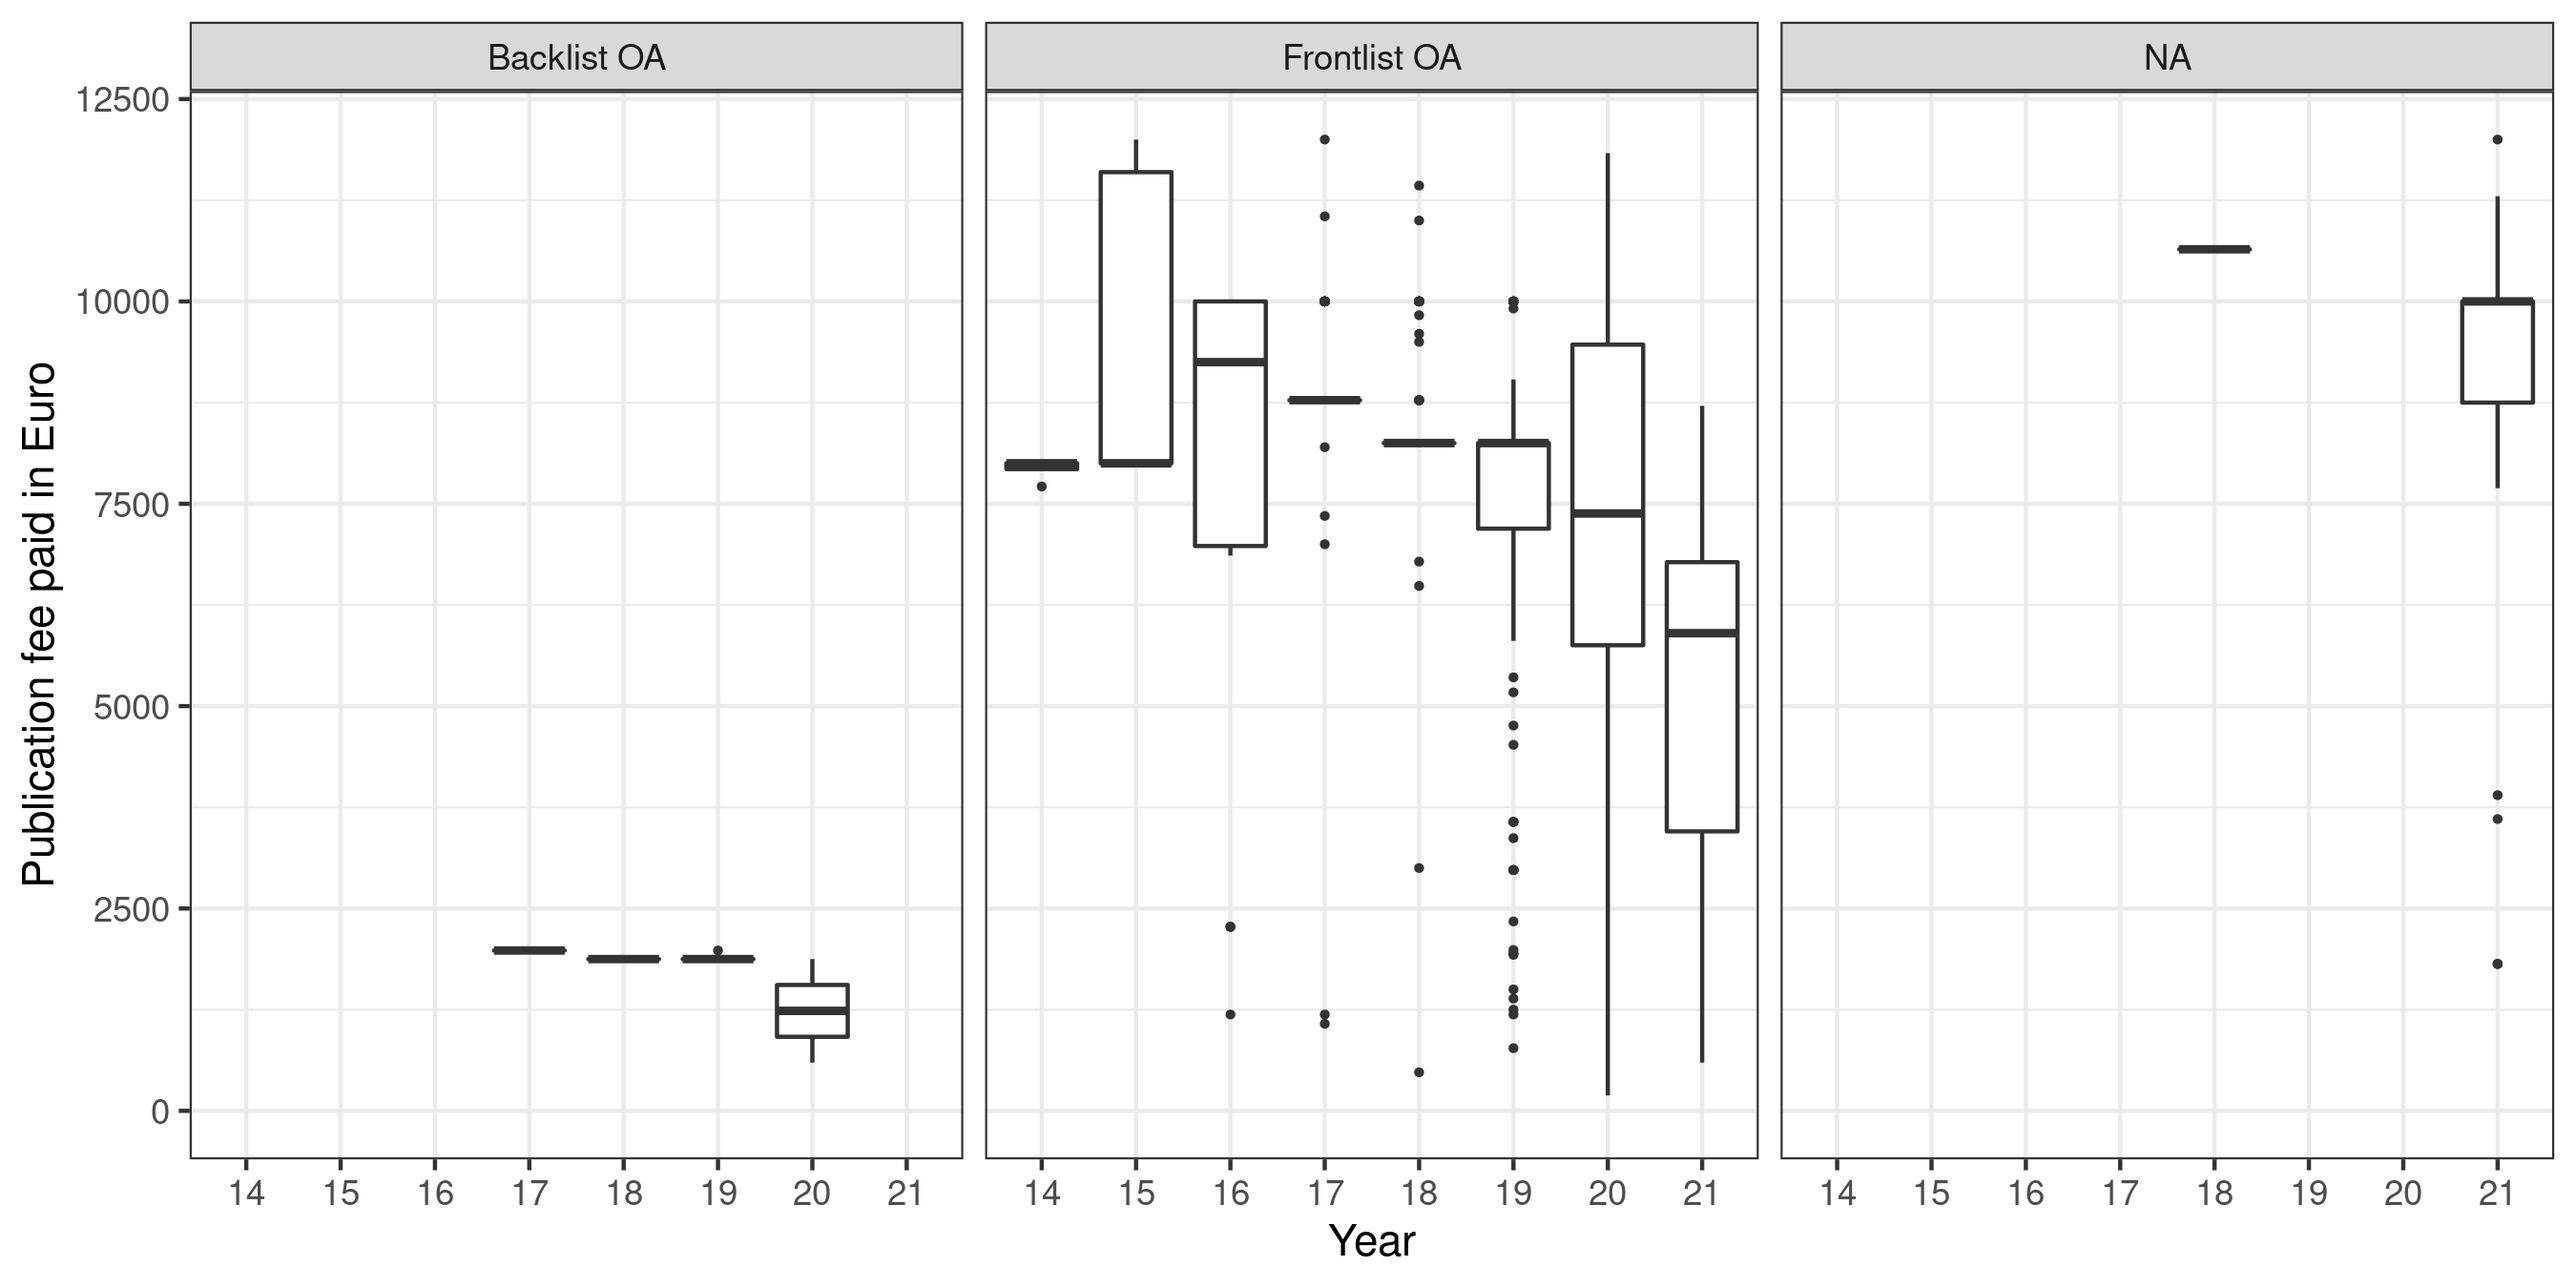
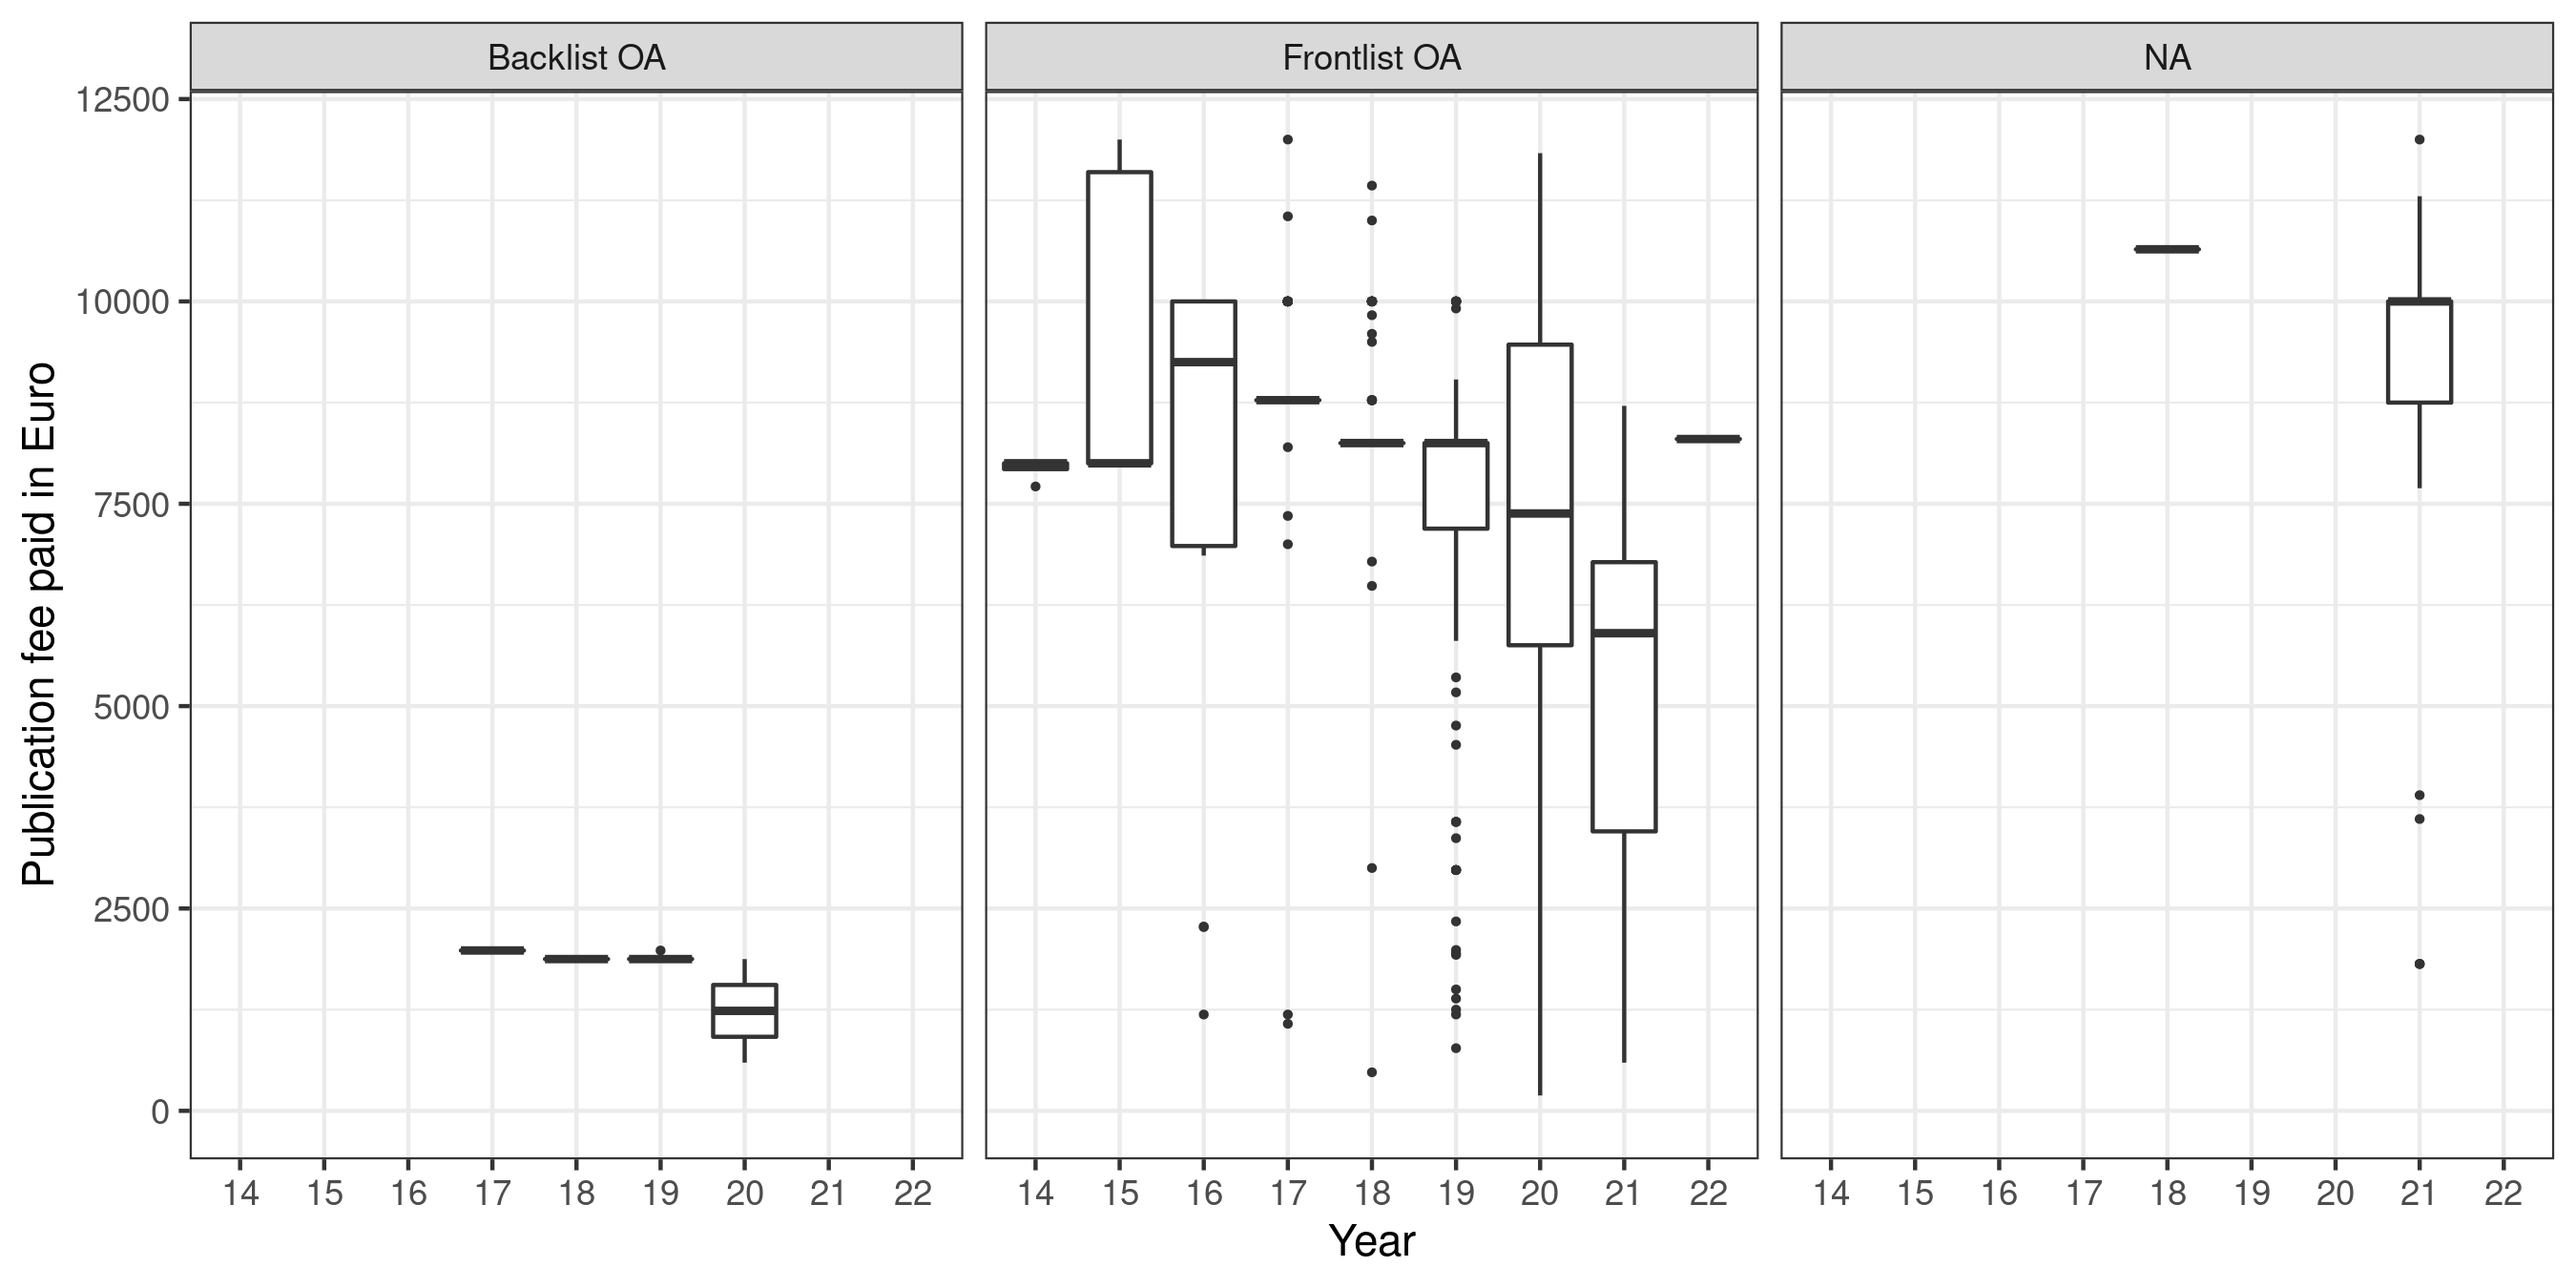
data added to collection

diff --git a/README.md b/README.md
@@ -17,7 +17,7 @@ At the moment this project provides the following cost data:
 | Publication Type | Count           | Aggregated Sum (€)      | Contributing Institutions              |
 |------------------|-----------------|-------------------------|----------------------------------------|
 | Articles         |167,843 | 322,966,959    | 382 |
-| Monographs       |1,472 | 9,500,268    | 27 |
+| Monographs       |1,473 | 9,508,568    | 27 |
 
 [![Build Status](https://api.travis-ci.com/OpenAPC/openapc-de.svg?branch=master)](https://travis-ci.com/OpenAPC/openapc-de)&nbsp;&nbsp;([What's this?](https://github.com/OpenAPC/openapc-de/wiki/Data-Integrity-Testing))
 
@@ -551,9 +551,9 @@ Hybrid open access journals rely on both publication fees and subscriptions as r
 
 ### Books (BPCs)
 
-The book data set contains information on 1,472 open access books. Publication fees were supported financially by 27 research performing institutions and funders. 
+The book data set contains information on 1,473 open access books. Publication fees were supported financially by 27 research performing institutions and funders. 
 
-In total, book processing charges covered by the OpenAPC initiative amounted to € 9,500,268. The average payment was € 6,454 and the median was € 7,022.
+In total, book processing charges covered by the OpenAPC initiative amounted to € 9,508,568. The average payment was € 6,455 and the median was € 7,045.
 
 Books can be made Open Access right from the beginning ("frontlist") or only retroactively after having been published traditionally in the first place ("backlist"), which can have a big influence on the paid BPCs.
 
@@ -576,6 +576,7 @@ Books can be made Open Access right from the beginning ("frontlist") or only ret
 |2019   |             165|    7,930|      8,250|   774 - 22,000|            194|    1,876|      1,875| 1,875 - 1,981|
 |2020   |             143|    7,800|      7,500|   190 - 19,200|              2|    1,235|      1,235|   595 - 1,875|
 |2021   |              57|    5,568|      5,950|   595 - 16,120|             NA|       NA|         NA|            NA|
+|2022   |               1|    8,300|      8,300| 8,300 -  8,300|             NA|       NA|         NA|            NA|
 
 
 ## Use of external sources
